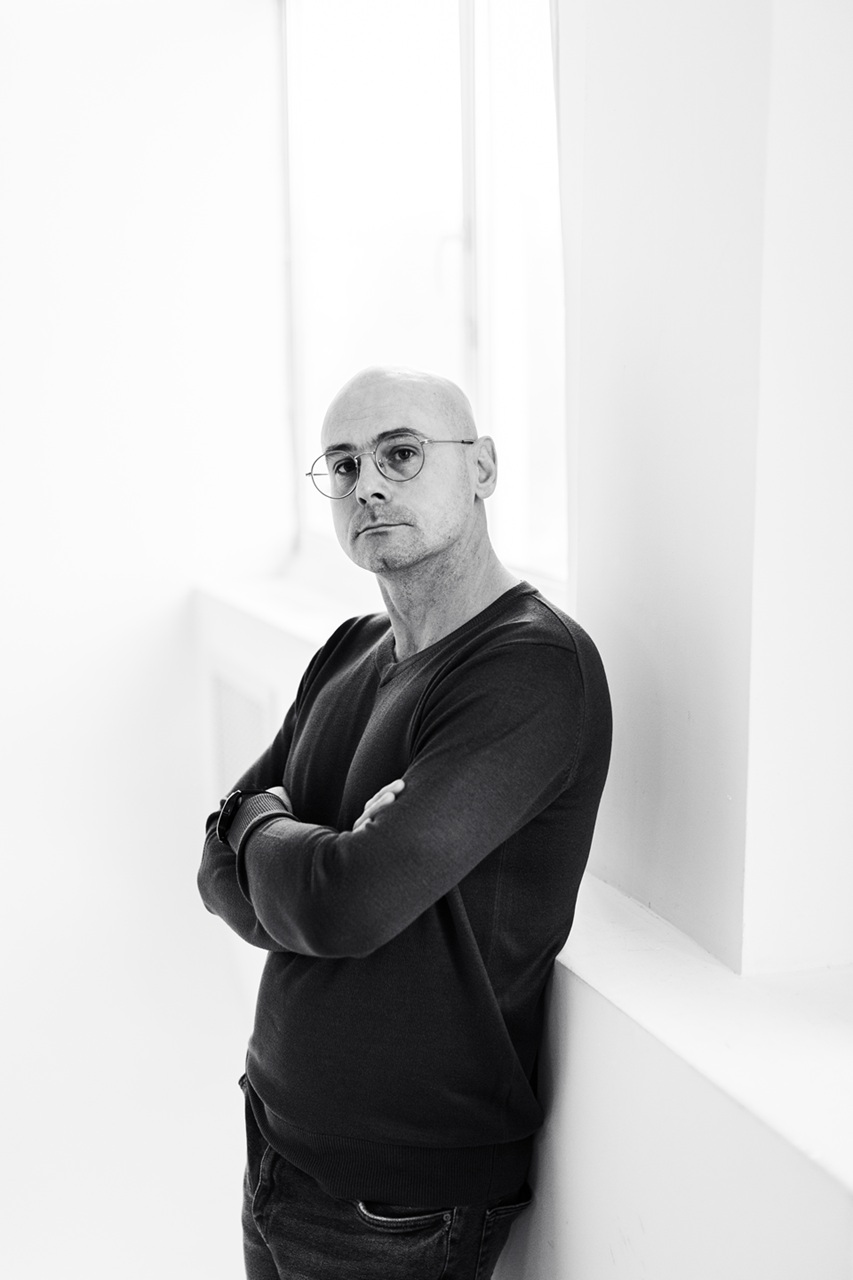
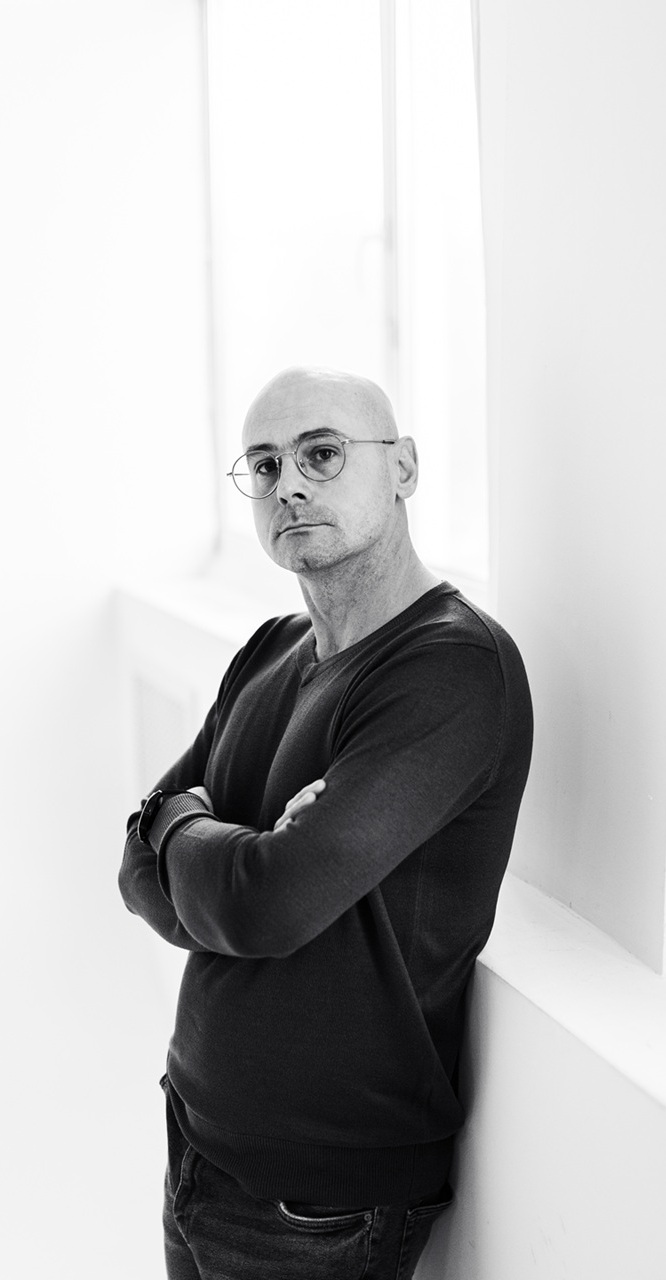
And another one

diff --git a/index.html b/index.html
@@ -24,7 +24,7 @@
 	<meta name="twitter:title" content="IT-эксперт">
 	<meta name="twitter:description" content="Локальный AI ⬩ Кибербез ⬩ E-com">
 	<meta name="twitter:image" content="https://ivanpopov.pro/static/img/about/og-image-square.jpg">
-	<meta name="twitter:image:alt" content="Иван Попов (IT, AI)">
+	<meta name="twitter:image:alt" content="Иван Попов, IT-эксперт">
 
 	<!-- JSON-LD: Google / Bing rich results (not link-preview cards) -->
 	<script type="application/ld+json">
@@ -66,7 +66,7 @@
 	  https://developers.facebook.com/documentation/sharing/webmasters/faq.md -->
 	<meta property="og:image" content="https://ivanpopov.pro/static/img/about/og-image-preview.jpg" />
 	<meta property="og:image:type" content="image/jpeg" />
-	<meta property="og:image:width" content="857" />
+	<meta property="og:image:width" content="666" />
 	<meta property="og:image:height" content="1280" />
 	<meta property="og:image:alt" content="Иван Попов, (IT, AI)" />
 
